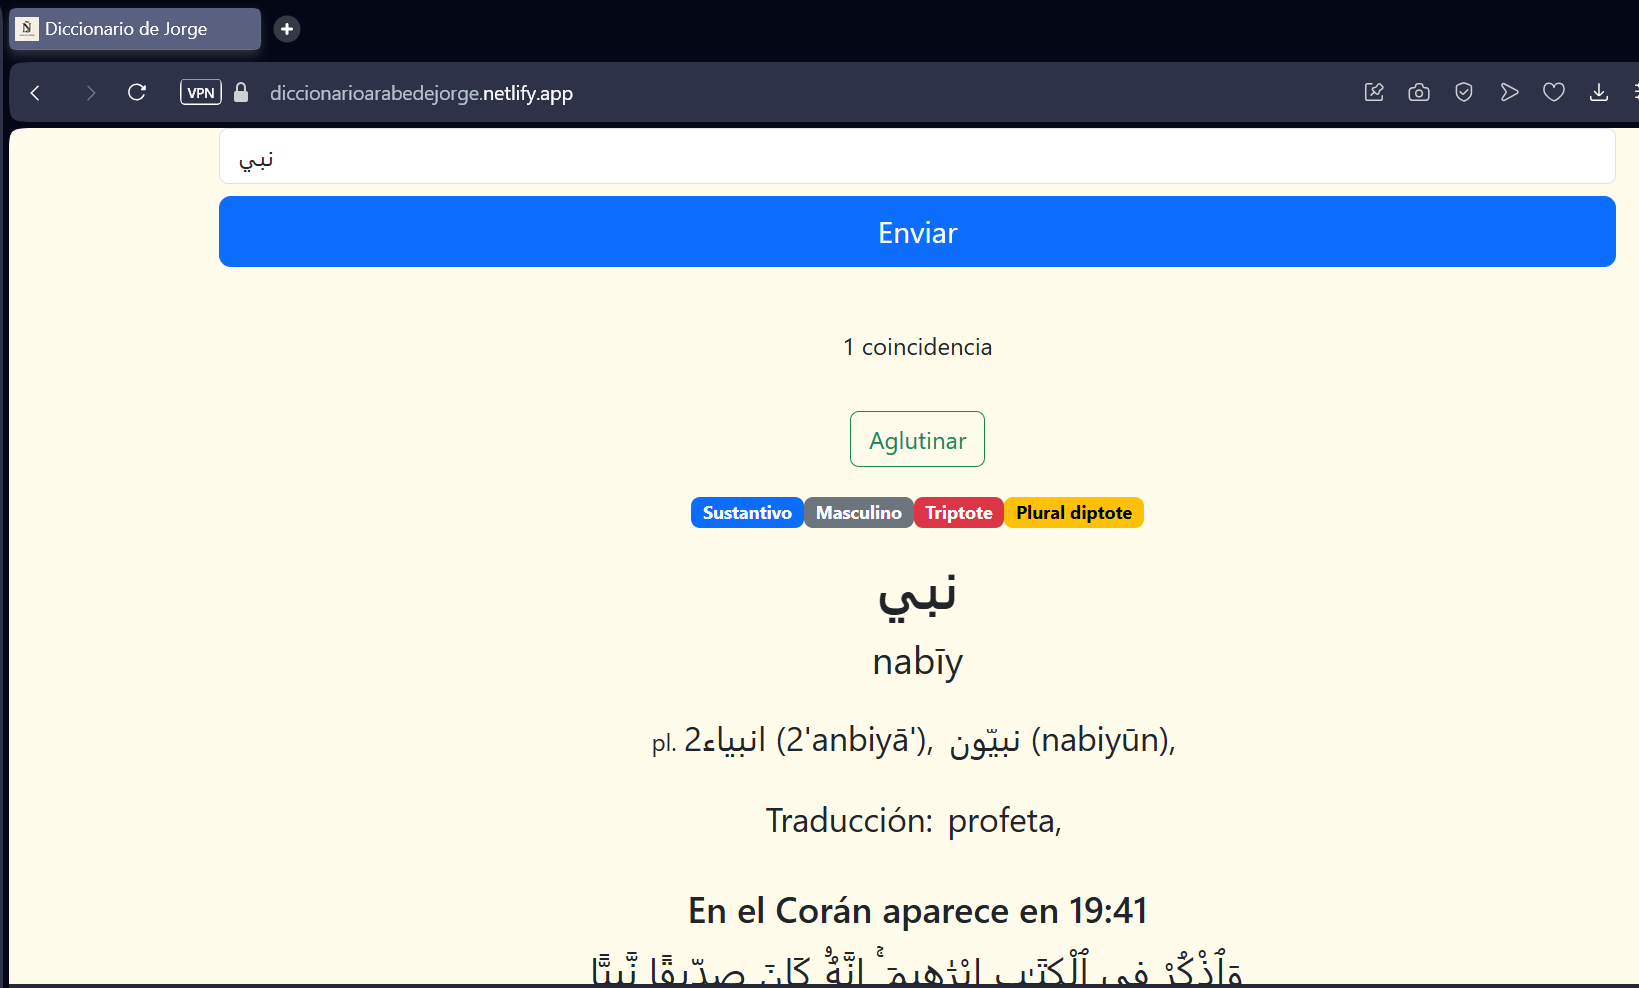
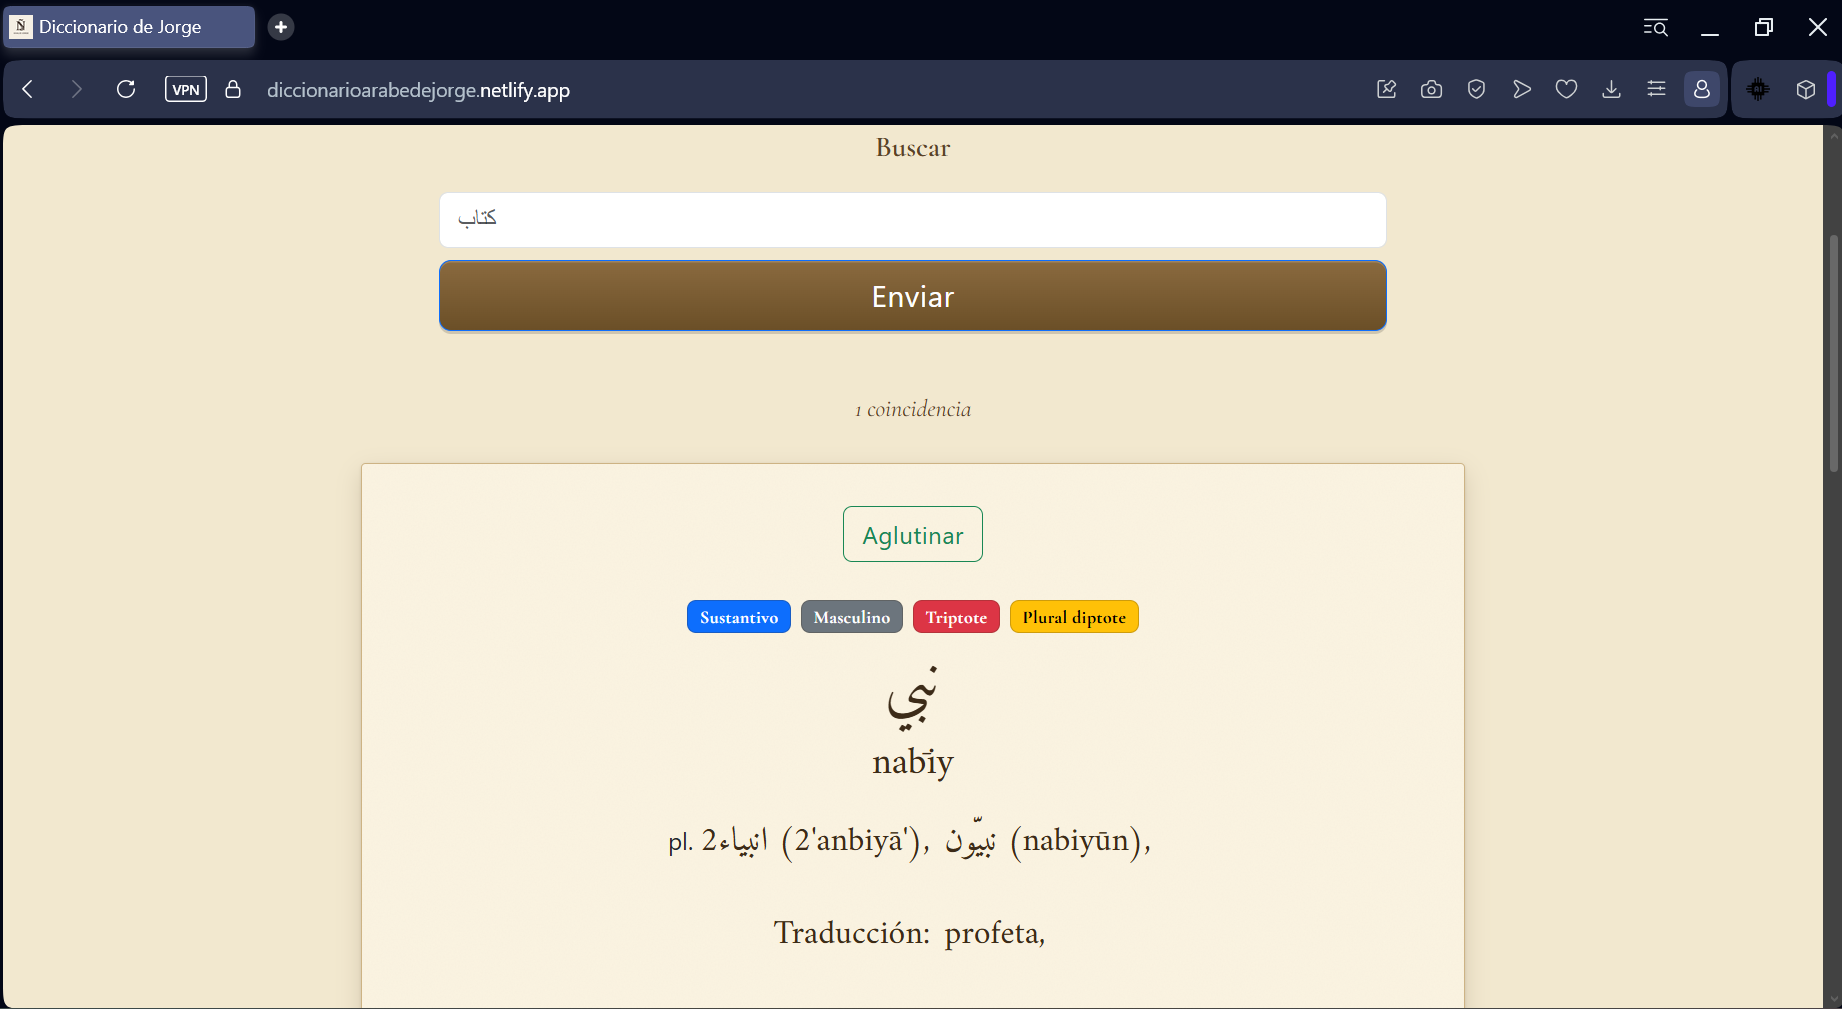
description update

diff --git a/src/setupTests.js b/src/setupTests.js
@@ -1,5 +1,6 @@
-// jest-dom adds custom jest matchers for asserting on DOM nodes.
-// allows you to do things like:
-// expect(element).toHaveTextContent(/react/i)
-// learn more: https://github.com/testing-library/jest-dom
-import '@testing-library/jest-dom';
+/***jest-dom adds custom jest matchers for asserting on DOM nodes.
+allows you to do things like:
+expect(element).toHaveTextContent(/react/i)
+learn more: https://github.com/testing-library/jest-dom
+***/
+import "@testing-library/jest-dom";

diff --git a/src/reportWebVitals.js b/src/reportWebVitals.js
@@ -1,6 +1,6 @@
-const reportWebVitals = onPerfEntry => {
+const reportWebVitals = (onPerfEntry) => {
   if (onPerfEntry && onPerfEntry instanceof Function) {
-    import('web-vitals').then(({ getCLS, getFID, getFCP, getLCP, getTTFB }) => {
+    import("web-vitals").then(({ getCLS, getFID, getFCP, getLCP, getTTFB }) => {
       getCLS(onPerfEntry);
       getFID(onPerfEntry);
       getFCP(onPerfEntry);

diff --git a/README.md b/README.md
@@ -41,6 +41,15 @@ When you are done with a word just tap or click the X button on the card to dele
 
 ![alt text](image-4.png)
 
+### App is full responsive
+
+![alt text](image.png)
+
+Search on your iPhone or iPad or any mobile device with smaller screens than a PC.
+The app is responsive to all screen sizes
+
+![alt text](image-5.png)
+
 ## Available Scripts
 
 In the project directory, you can run:
